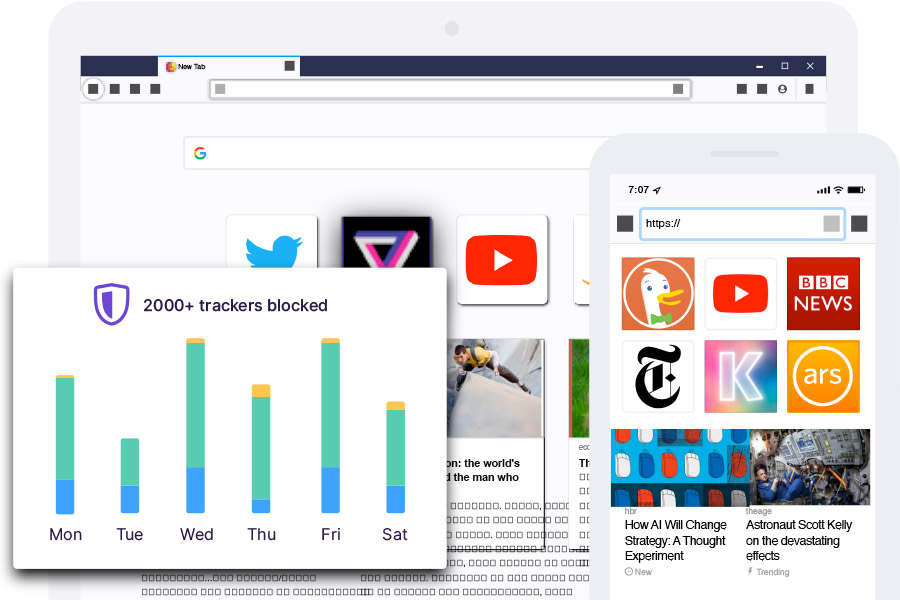
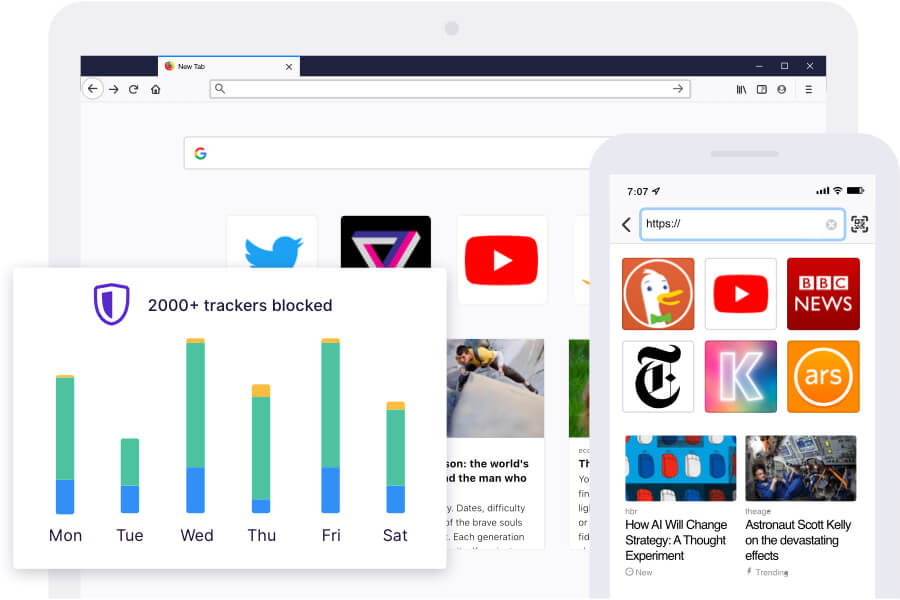
Firefox home image and string updates (#8049)
- added new images for browsers and pocket
- updated string to remove comma
    - updated other occurances of comma on site for consistancy

diff --git a/bedrock/firefox/templates/firefox/home/index-master.html b/bedrock/firefox/templates/firefox/home/index-master.html
@@ -41,7 +41,11 @@
 {# Setting all the strings here make it easy to use this page as a base template if we need to hard code the translation in bedrock #}
 {% set page_title = _('The browser is just the beginning') %}
 {% set family_title = _('Meet our family of products') %}
-{% set browsers_trackers = _('Get 2,000+ trackers off your trail — including Facebook') %}
+{% if LANG.startswith('en') %}
+  {% set browsers_trackers = 'Get 2000+ trackers off your trail — including Facebook' %}
+{% else %}
+  {% set browsers_trackers = _('Get 2,000+ trackers off your trail — including Facebook') %}
+{% endif %}
 {% set monitor_title = _('Know when hackers strike — and stay a step ahead') %}
 {% set monitor_cta = _('Start getting breach reports') %}
 {% set lockwise_title = _('Keep your passwords safe on every device') %}

diff --git a/bedrock/firefox/templates/firefox/privacy/products.html b/bedrock/firefox/templates/firefox/privacy/products.html
@@ -43,7 +43,13 @@
     include_cta=True,
     heading_level=2
   ) %}
-    <h3 class="privacy-products-hero-sub-title">{{ _('2,000+ trackers blocked — automatically') }}</h3>
+    <h3 class="privacy-products-hero-sub-title">
+      {% if LANG.startswith('en') %}
+        2000+ trackers blocked — automatically
+      {% else %}
+        {{ _('2,000+ trackers blocked — automatically') }}
+      {% endif %}
+    </h3>
 
     <p>
     {% trans %}

diff --git a/bedrock/exp/templates/exp/firefox/index.html b/bedrock/exp/templates/exp/firefox/index.html
@@ -102,7 +102,7 @@
         ga_title='Trackers',
         media_after=True
       ) %}
-        <h4>Get 2,000+ trackers off your trail — including Facebook</h4>
+        <h4>Get 2000+ trackers off your trail — including Facebook</h4>
         <div class="mzp-c-menu-list mzp-t-cta mzp-t-download">
           <h5 class="mzp-c-menu-list-title">Download the browser</h5>
           <ul class="mzp-c-menu-list-list" id="menu-browsers">

diff --git a/bedrock/mozorg/templates/mozorg/home/home-en.html b/bedrock/mozorg/templates/mozorg/home/home-en.html
@@ -58,7 +58,7 @@
 
   {% call download_banner(
     title=_('Take back your privacy'),
-    desc=_('Get the browser that blocks 2,000+ types of ad trackers'),
+    desc=_('Get the browser that blocks 2000+ types of ad trackers'),
     ) %}
     {{ download_firefox(dom_id='download-primary', download_location='primary cta') }}
   {% endcall %}
